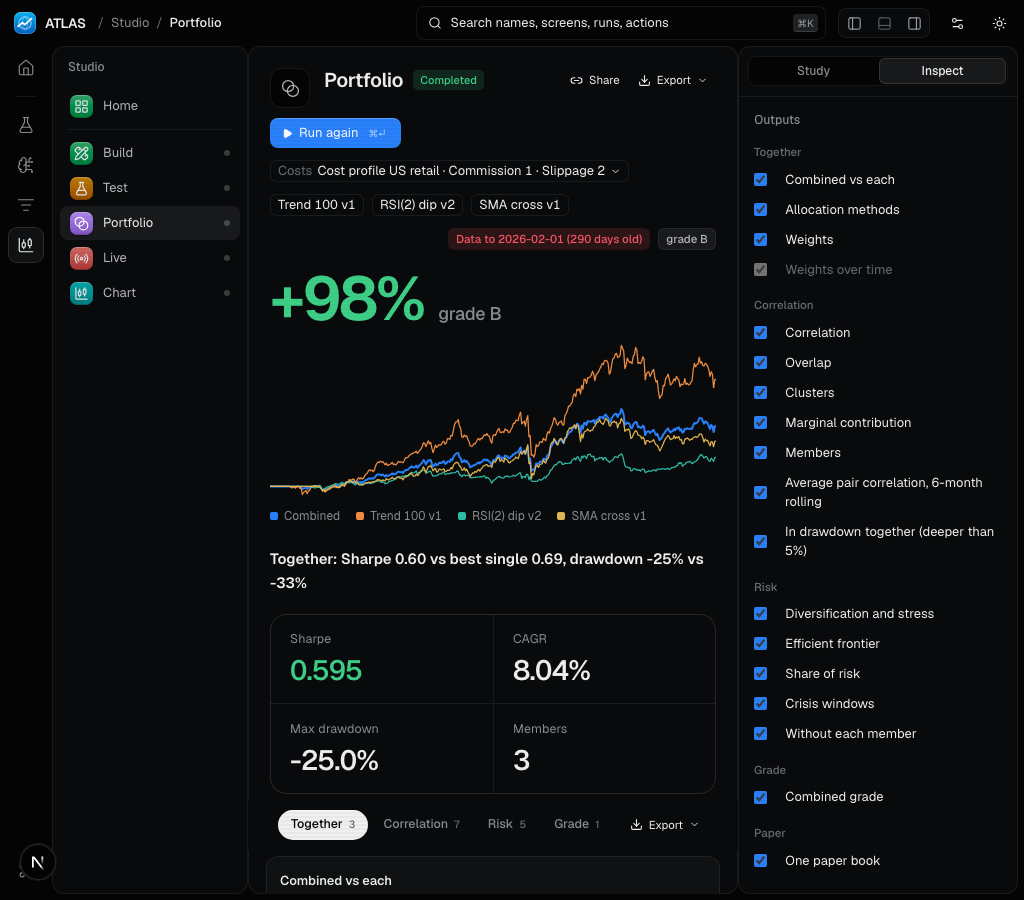
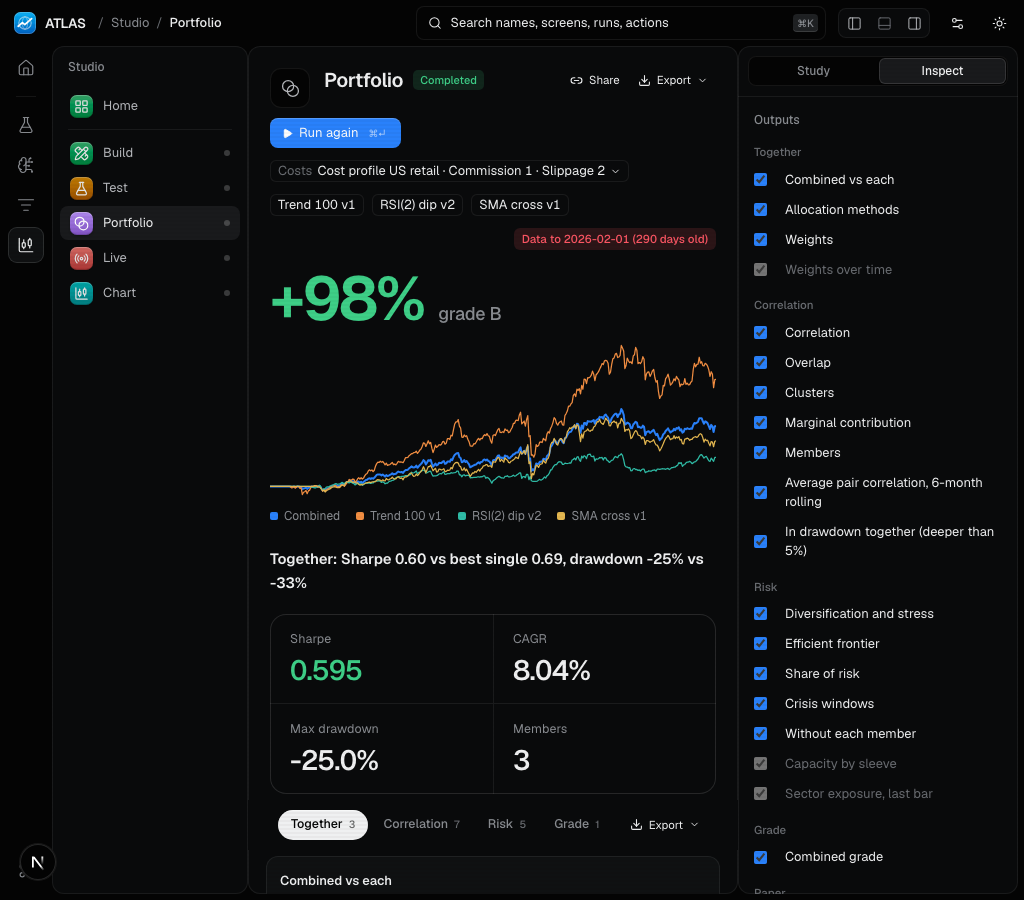
Portfolio UI to the guide and canon: tab kept in the URL, no entrance motion on load or tab switch, KPI strip fits one row, grade shown once, no middle-dot meta in Paper, spacing on the scale

diff --git a/frontend/src/modules/research/Hero.tsx b/frontend/src/modules/research/Hero.tsx
@@ -1,7 +1,5 @@
 "use client";
 
-import { motion } from "framer-motion";
-import { useId } from "react";
 import { openQuickLook } from "@/kit/QuickLook";
 import type { Tone } from "./layouts";
 
@@ -18,27 +16,23 @@ export type HeroSpec = {
 
 const TONE: Record<string, string> = { up: "var(--up)", down: "var(--down)", warn: "var(--warn)" };
 const STACK = ["var(--c1)", "var(--c2)", "var(--c3)", "var(--c4)", "var(--c5)", "var(--c6)", "var(--c7)", "var(--c8)"];
-const ease = [0.2, 0, 0, 1] as const;
 
 export function HeroResult({ spec }: { spec: HeroSpec }) {
-  // The workspace's Reduce motion switch (.rm) shows the finished picture at once.
-  const still = typeof document !== "undefined" && Boolean(document.querySelector(".rm"));
-  const t = (d: number, delay = 0) => (still ? { duration: 0 } : { duration: d, delay, ease });
   return (
     <div className="hero-r">
       <div className="hero-fig">
-        <motion.b className="num" style={{ color: TONE[spec.tone ?? ""] ?? "var(--text)" }} initial={still ? false : { opacity: 0, y: 10 }} animate={{ opacity: 1, y: 0 }} transition={t(0.5)}>{spec.figure}</motion.b>
+        <b className="num" style={{ color: TONE[spec.tone ?? ""] ?? "var(--text)" }}>{spec.figure}</b>
         {spec.versus ? <span className="num">{spec.versus}</span> : null}
       </div>
       {spec.line ? <p className="hero-line">{spec.line}</p> : null}
-      {spec.lines?.length ? <Lines lines={spec.lines} t={t} still={still} /> : null}
+      {spec.lines?.length ? <Lines lines={spec.lines} /> : null}
       {spec.bars?.length ? (
         <div className="hero-bars">
           {spec.bars.map((b, i) => {
             const top = Math.max(...spec.bars!.map((x) => x.value), 1e-9);
             return (
               <button key={b.label} type="button" onClick={() => openQuickLook(b.label)} title={`${b.label} ${b.value.toFixed(1)}`}>
-                <motion.i style={{ height: `${Math.max(2, (b.value / top) * 100)}%`, transformOrigin: "bottom" }} initial={still ? false : { scaleY: 0 }} animate={{ scaleY: 1 }} transition={t(0.6, i * 0.03)} />
+                <i style={{ height: `${Math.max(2, (b.value / top) * 100)}%`, transformOrigin: "bottom" }} />
                 <span>{b.label}</span>
               </button>
             );
@@ -48,7 +42,7 @@ export function HeroResult({ spec }: { spec: HeroSpec }) {
       {spec.stack?.length ? (
         <div className="hero-stack">
           <div className="hero-stack-bar">
-            {spec.stack.map((s, i) => <motion.i key={s.label} style={{ flexGrow: s.value, background: STACK[i % STACK.length], transformOrigin: "left" }} initial={still ? false : { scaleX: 0 }} animate={{ scaleX: 1 }} transition={t(0.6, i * 0.05)} title={`${s.label} ${s.value}`} />)}
+            {spec.stack.map((s, i) => <i key={s.label} style={{ flexGrow: s.value, background: STACK[i % STACK.length], transformOrigin: "left" }} title={`${s.label} ${s.value}`} />)}
           </div>
           <div className="hero-stack-key">{spec.stack.map((s, i) => <span key={s.label}><i style={{ background: STACK[i % STACK.length] }} />{s.label} <b className="num">{s.value}</b></span>)}</div>
         </div>
@@ -57,20 +51,15 @@ export function HeroResult({ spec }: { spec: HeroSpec }) {
   );
 }
 
-function Lines({ lines, t, still }: { lines: NonNullable<HeroSpec["lines"]>; t: (d: number, delay?: number) => object; still: boolean }) {
+function Lines({ lines }: { lines: NonNullable<HeroSpec["lines"]> }) {
   const all = lines.flatMap((l) => l.values);
   const lo = Math.min(...all), hi = Math.max(...all), n = Math.max(...lines.map((l) => l.values.length));
   const y = (v: number) => 100 - ((v - lo) / (hi - lo || 1)) * 92 - 4;
   const d = (v: number[]) => v.map((p, i) => `${i ? "L" : "M"}${(i / Math.max(1, n - 1)) * 1000},${y(p).toFixed(2)}`).join("");
-  const clip = useId();
   return (
     <div className="hero-lines">
       <svg viewBox="0 0 1000 100" preserveAspectRatio="none" role="img" aria-label={lines.map((l) => l.label).join(" against ")}>
-        {/* A clip reveal, not pathLength: Chrome cuts dashed paths short under non-scaling-stroke. */}
-        <clipPath id={clip}><motion.rect x={0} y={-10} height={120} initial={still ? false : { width: 0 }} animate={{ width: 1000 }} transition={t(1.4)} /></clipPath>
-        <g clipPath={`url(#${clip})`}>
-          {lines.map((l, i) => <path key={l.label} d={d(l.values)} fill="none" stroke={l.color} strokeWidth={i ? 1.25 : 2} vectorEffect="non-scaling-stroke" strokeLinejoin="round" />)}
-        </g>
+        {lines.map((l, i) => <path key={l.label} d={d(l.values)} fill="none" stroke={l.color} strokeWidth={i ? 1.25 : 2} vectorEffect="non-scaling-stroke" strokeLinejoin="round" />)}
       </svg>
       <div className="hero-key">{lines.map((l) => <span key={l.label}><i style={{ background: l.color }} />{l.label}</span>)}</div>
     </div>

diff --git a/frontend/src/modules/research/FeatureView.tsx b/frontend/src/modules/research/FeatureView.tsx
@@ -5,7 +5,7 @@ import "@glass-sdk/liquid-glass/styles.css";
 import { ChartScope } from "@/charts/ChartScope";
 import Link from "next/link";
 import { AnimatePresence, motion } from "framer-motion";
-import { createElement, useEffect, useMemo, useRef, useState } from "react";
+import { createElement, useCallback, useEffect, useMemo, useRef, useState } from "react";
 import { AlertTriangle, Bookmark, Braces, GitCompareArrows, Check, ChevronDown, Copy, Download, FileText, Hash, Link2, Loader2, Play, Square } from "lucide-react";
 import { downloadText } from "@/charts/export";
 import toast from "react-hot-toast";
@@ -35,7 +35,13 @@ export function FeatureView({ feature, run }: { feature: FeatureSpec; run: Featu
   const layout = useMemo(() => layoutFor(feature), [feature]);
   const meta = metaFor(feature.id, feature.name);
   const Icon = meta.icon;
-  const [tab, setTab] = useState(layout.sections[0]?.id ?? "");
+  const [tab, setTabState] = useState(() => (typeof window !== "undefined" && new URLSearchParams(location.search).get("tab")) || layout.sections[0]?.id || "");
+  // The open tab lives in the URL so refresh and shared links restore it.
+  const setTab = useCallback((u: string | ((cur: string) => string)) => setTabState((cur) => {
+    const id = typeof u === "function" ? u(cur) : u;
+    const url = new URL(location.href); url.searchParams.set("tab", id); history.replaceState(history.state, "", url);
+    return id;
+  }), []);
   const [maxKey, setMaxKey] = useState<string | null>(null);
   const [stuck, setStuck] = useState(false);
   const prefs = useFeaturePrefs(feature.id);
@@ -198,7 +204,7 @@ export function FeatureView({ feature, run }: { feature: FeatureSpec; run: Featu
         </div>
         <AnimatePresence initial={false}>
           {result ? (
-            <motion.div key={run.jobId ?? "r"} initial={{ opacity: 0, y: 6 }} animate={{ opacity: 1, y: 0 }} transition={{ duration: DUR.slow, ease: [0.2, 0, 0, 1] }}>
+            <motion.div key={run.jobId ?? "r"} initial={false}>
               {layout.hero?.(result) ? <HeroResult spec={layout.hero(result)!} /> : null}
               <VerdictStrip feature={feature} result={result} jobId={run.jobId} />
               {result.meta.research_caveats?.length ? <Limits items={result.meta.research_caveats} /> : null}
@@ -242,7 +248,7 @@ export function FeatureView({ feature, run }: { feature: FeatureSpec; run: Featu
               <OutputCard item={{ ...maxItem, span: 12 }} feature={feature} result={result} maximized onToggleMax={() => setMaxKey(null)} scope={scope} />
             </motion.div>
           ) : (
-            <motion.div key={`${active.id}-${run.jobId}`} className="out-grid" initial="hidden" animate="show" variants={{ show: { transition: { staggerChildren: 0.035 } } }}>
+            <motion.div key={`${active.id}-${run.jobId}`} className="out-grid" initial={false} animate="show" variants={{ show: { transition: { staggerChildren: 0.035 } } }}>
               {active.intro ? <div className="section-h"><p>{active.intro}</p></div> : null}
               {hiddenIn(active).length ? (
                 <div style={{ gridColumn: "1 / -1" }}><button className="btn sm ghost" onClick={() => hiddenIn(active).forEach((i) => setPref(feature.id, cardId(i), { hidden: false }))}>Show {hiddenIn(active).length} hidden</button></div>

diff --git a/frontend/src/modules/studio/views/PortfolioViews.tsx b/frontend/src/modules/studio/views/PortfolioViews.tsx
@@ -83,7 +83,7 @@ export function DeployBook({ result }: ViewProps) {
   };
   const orders = b?.orders.map((o) => `${o.action.toUpperCase()} ${o.shares} ${o.symbol}`).join("\n") ?? "";
   return (
-    <div style={{ display: "grid", gap: 10 }}>
+    <div style={{ display: "grid", gap: 12 }}>
       <table className="pf-stats"><tbody>{members.map((m) => <tr key={m.strategy_id}><th>{m.name}</th><td>{pct(m.weight)}</td></tr>)}</tbody></table>
       <div style={{ display: "flex", gap: 8, alignItems: "center", flexWrap: "wrap" }}>
         <input className="input" type="date" aria-label="Backdate start" value={from} onChange={(e) => setFrom(e.target.value)} />
@@ -93,9 +93,9 @@ export function DeployBook({ result }: ViewProps) {
         <>
           {b.stale ? <span className="chip down" style={{ justifySelf: "start" }}>data ends {b.as_of}</span> : null}
           {b.status === "ok" && b.paper_return != null
-            ? <div className="st-fig"><b>{(b.paper_return * 100).toFixed(1)}%</b><span>paper since {b.book.from} · Sharpe {b.paper_sharpe?.toFixed(2) ?? "—"}</span></div>
+            ? <div className="st-fig"><b>{(b.paper_return * 100).toFixed(1)}%</b><span>paper since {b.book.from}</span></div>
             : <Skipped reason={b.reason ?? "waiting"} />}
-          {b.attribution.length ? <table className="pf-stats"><tbody>{b.attribution.map((a) => <tr key={a.strategy}><th>{a.strategy}</th><td>{(a.contribution * 100).toFixed(1)}%</td></tr>)}</tbody></table> : null}
+          {b.attribution.length ? <table className="pf-stats"><tbody><tr><th>Paper Sharpe</th><td>{b.paper_sharpe?.toFixed(2) ?? "—"}</td></tr>{b.attribution.map((a) => <tr key={a.strategy}><th>{a.strategy}</th><td>{(a.contribution * 100).toFixed(1)}%</td></tr>)}</tbody></table> : null}
           {orders ? <pre className="bd-code" style={{ margin: 0 }}>{orders}</pre> : <Skipped reason={`no orders on ${b.as_of}`} />}
           {orders && b.netting_saves > 0.005 ? <p className="bd-find"><b>Netting</b>saves {(b.netting_saves * 100).toFixed(0)}% of shares</p> : null}
         </>

diff --git a/frontend/src/workspace/workspace.css b/frontend/src/workspace/workspace.css
@@ -350,7 +350,7 @@ select.input { appearance: none; background-image: linear-gradient(45deg, transp
 .verdict-lead p { font-size: 15px; line-height: 1.55; color: var(--text-2); letter-spacing: -0.005em; }
 .verdict-lead p b { font-weight: 600; color: var(--text); }
 /* KPI strip: hairline-divided cells, big tabular numbers, label above. */
-.kpis { display: grid; grid-template-columns: repeat(auto-fit, minmax(170px, 1fr)); gap: 0; border-radius: var(--r-xl); background: var(--island); box-shadow: inset 0 0 0 1px var(--line-2); overflow: hidden; }
+.kpis { display: grid; grid-template-columns: repeat(auto-fit, minmax(140px, 1fr)); gap: 0; border-radius: var(--r-xl); background: var(--island); box-shadow: inset 0 0 0 1px var(--line-2); overflow: hidden; }
 .kpi { min-width: 0; padding: 16px 20px 18px; box-shadow: inset 1px 0 0 var(--line); }
 .kpi:first-child { box-shadow: none; }
 .kpi .l { font-size: 12.5px; color: var(--text-3); white-space: nowrap; overflow: hidden; text-overflow: ellipsis; letter-spacing: 0.01em; }
@@ -750,8 +750,6 @@ nav.island { container-type: inline-size; }
 
 /* Motion: sidebar toggles glide (drags stay 1:1), pages fade in. The in-app Reduce motion switch (.rm) stops all of it. */
 .ws-animating [data-panel] { transition: flex-grow 0.28s cubic-bezier(0.2, 0.8, 0.2, 1), flex-basis 0.28s cubic-bezier(0.2, 0.8, 0.2, 1); }
-@keyframes page-in { from { opacity: 0; transform: translateY(4px); } }
-.ws-panels .island { animation: page-in 0.26s cubic-bezier(0.2, 0.8, 0.2, 1) both; }
 
 /* Light theme: selected pills are white on the grey track, not solid black. */
 .is-light .tab-pill, .is-light .ub-seg button[aria-checked="true"] { background: var(--panel); box-shadow: 0 1px 2px oklch(0 0 0 / 0.12), 0 0 0 1px oklch(0 0 0 / 0.06); }

diff --git a/frontend/src/modules/studio/RunHeader.tsx b/frontend/src/modules/studio/RunHeader.tsx
@@ -72,7 +72,7 @@ export function StudioContext({ feature, run }: { feature: FeatureSpec; run: Fea
           </details> : null}
           {m.freshness ? <FreshnessPill f={m.freshness} /> : null}
           {m.ledger && feature.id !== "st04" ? <TrialChip ledger={m.ledger} strategyId={m.strategy?.id} /> : null}
-          <Link className="chip" href="/studio/validate" data-testid="verdict-chip">{m.verdict_chip ?? "not validated"}</Link>
+          {feature.id !== "st04" ? <Link className="chip" href="/studio/validate" data-testid="verdict-chip">{m.verdict_chip ?? "not validated"}</Link> : null}
         </div>
       ) : null}
     </>
